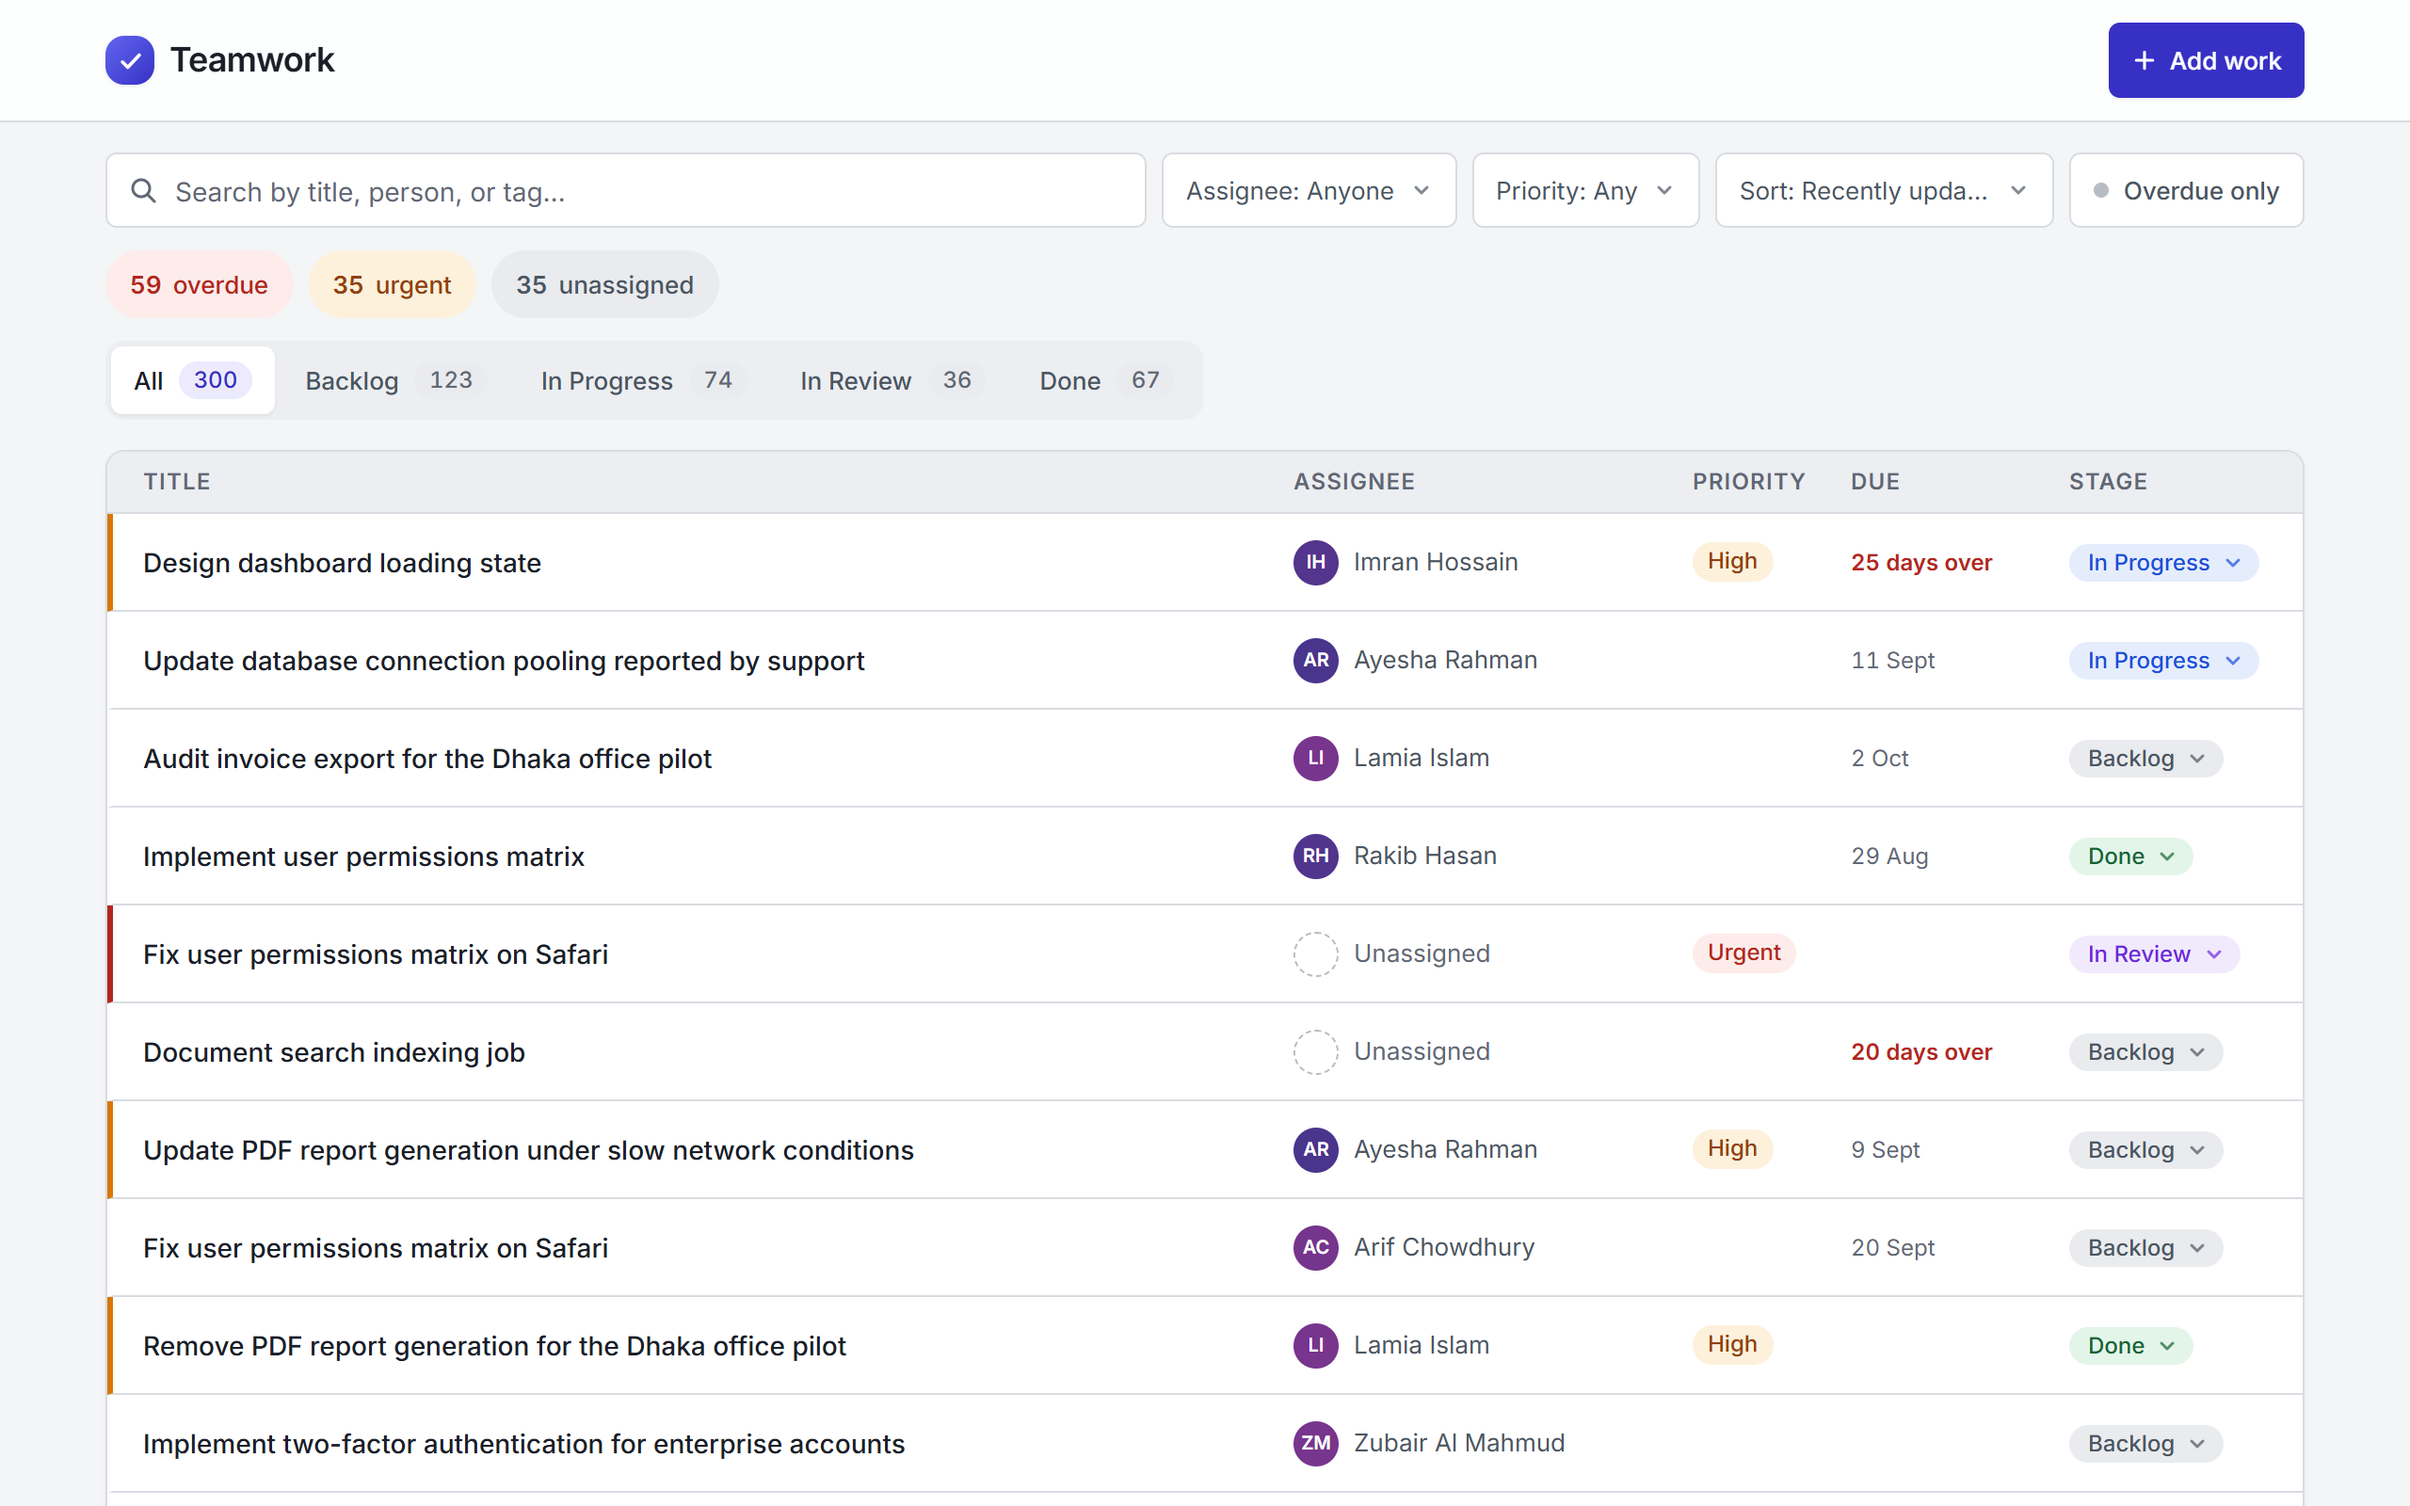
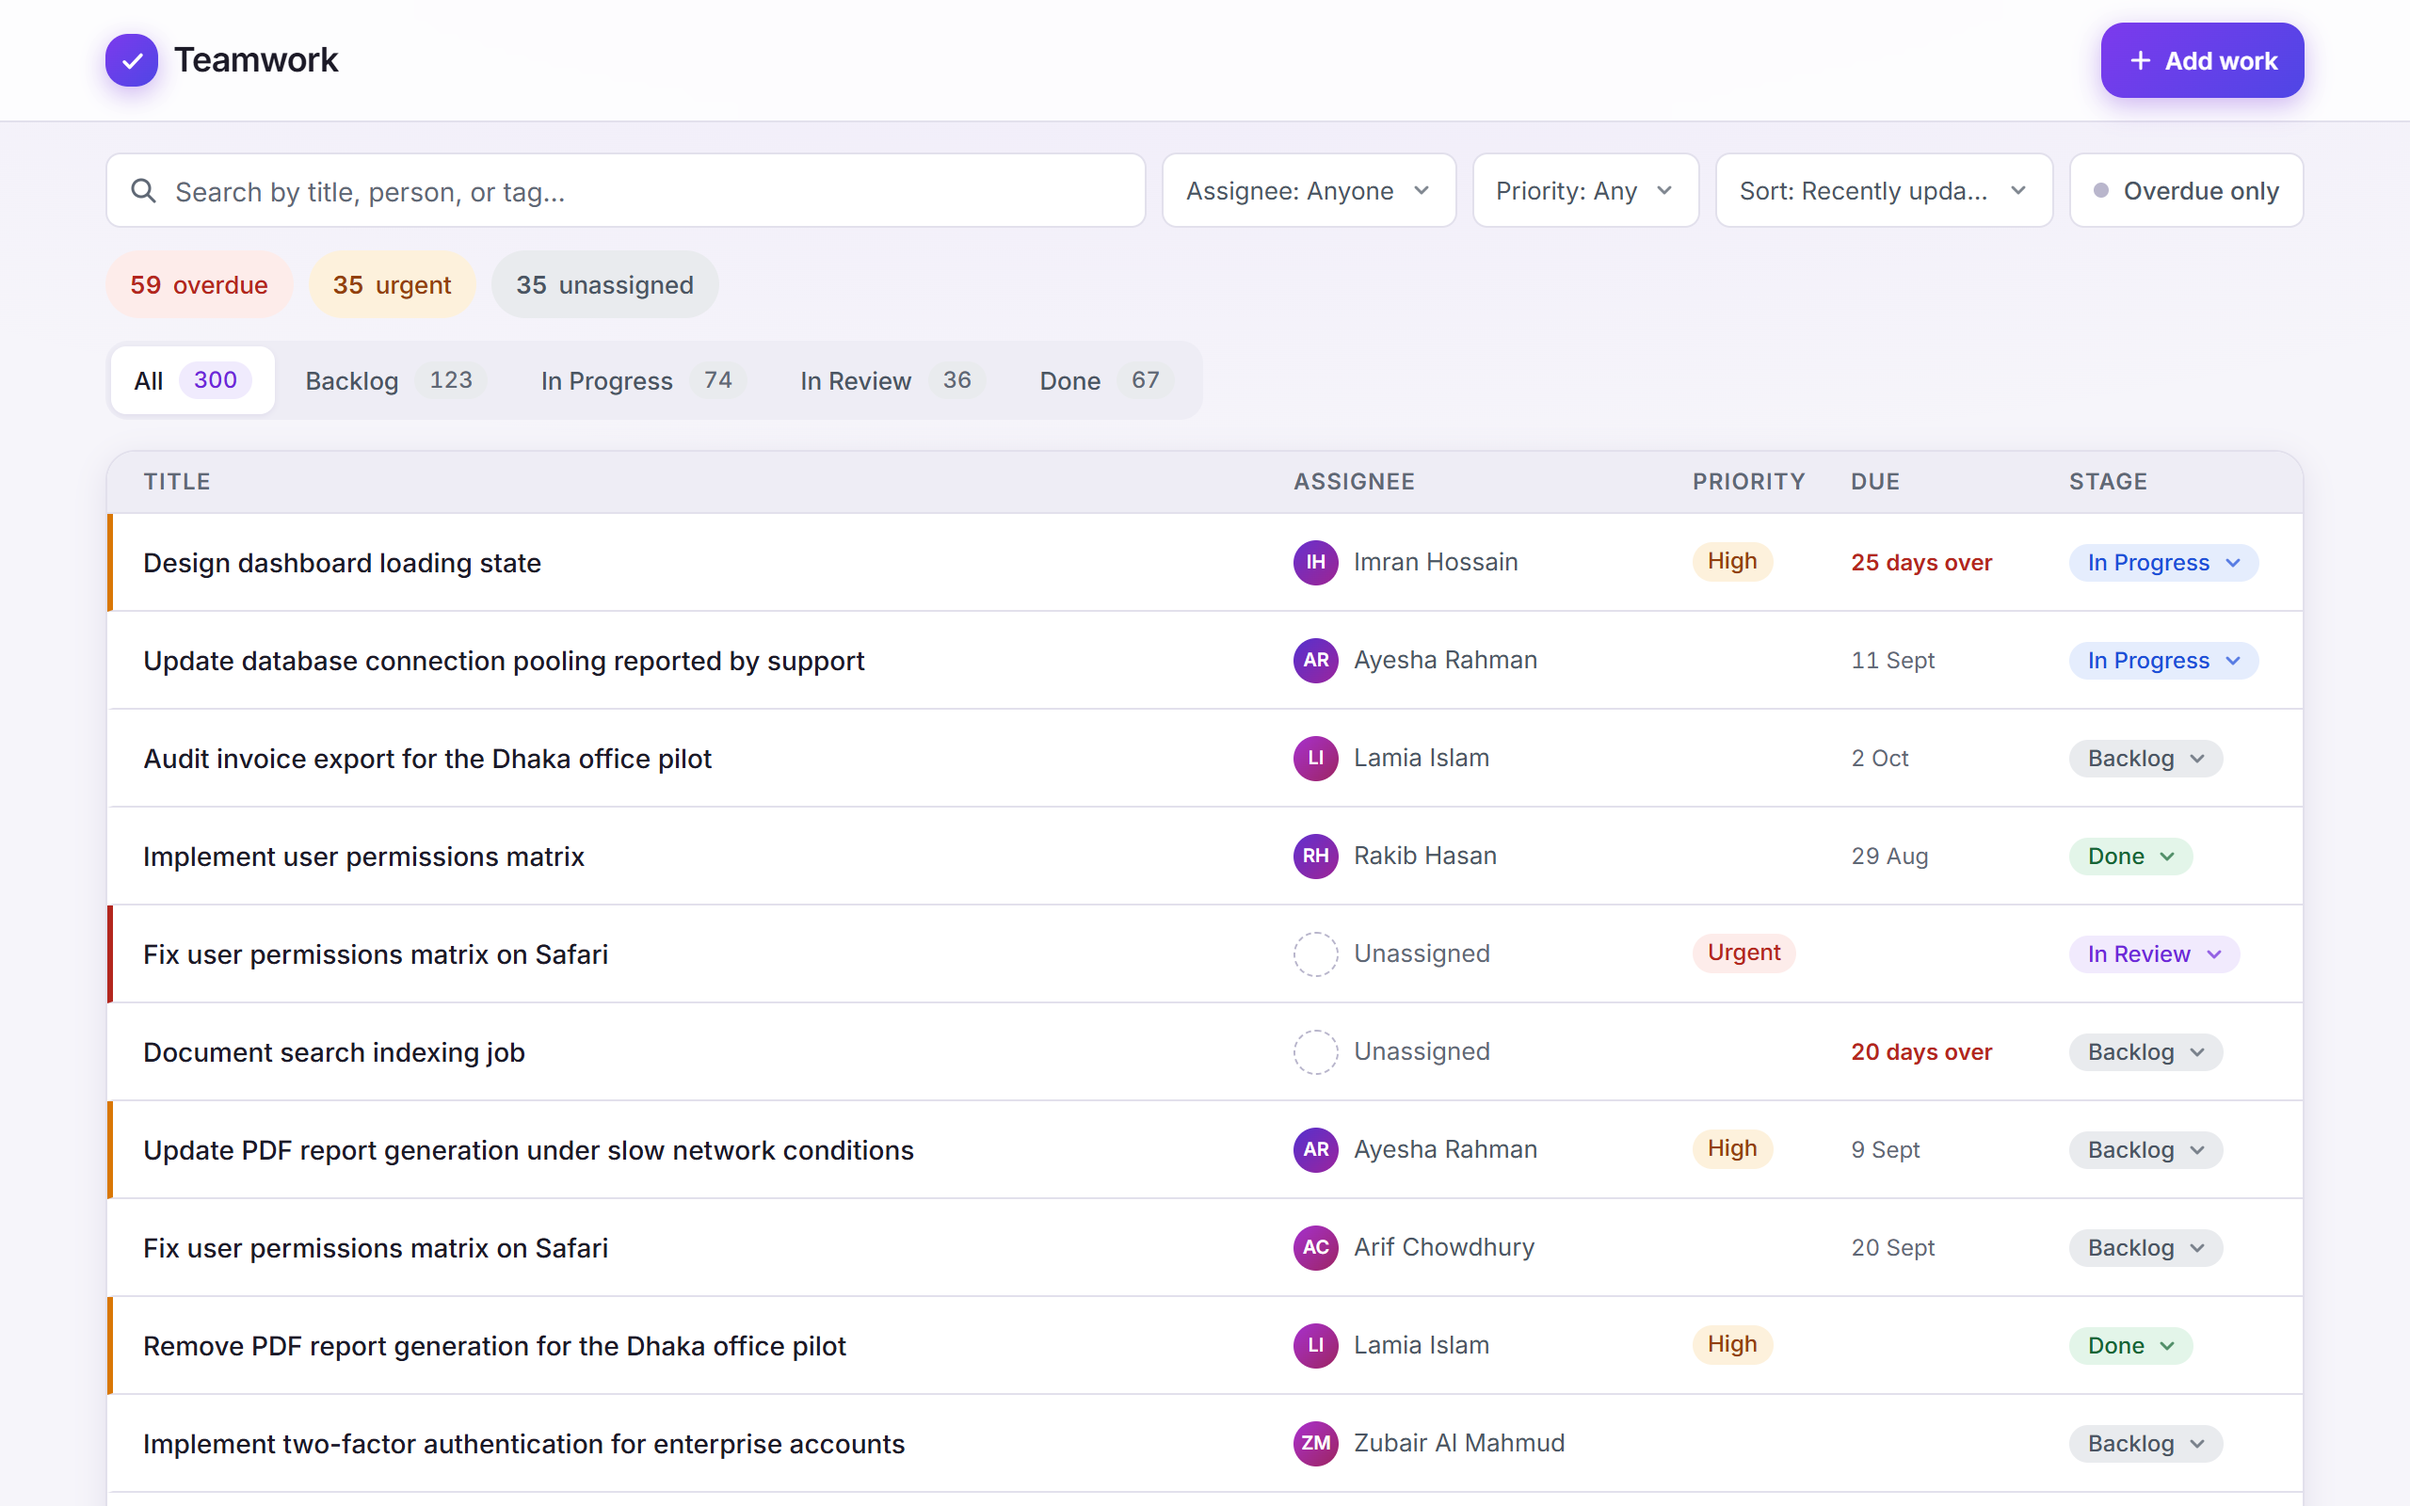
Minor UI Tweaks

diff --git a/src/app/styles/global.css b/src/app/styles/global.css
@@ -2,19 +2,19 @@
 
 
 @theme {
-  --color-page: #f4f5f7;
+  --color-page: #f6f5fa;
   --color-surface: #ffffff;
-  --color-sunken: #eceef1;
-  --color-line: #d9dce1;
-  --color-line-strong: #b7bcc4;
-  --color-ink: #1a1f27;
+  --color-sunken: #eeedf5;
+  --color-line: #e2e0ec;
+  --color-line-strong: #b9b6cc;
+  --color-ink: #1c1a27;
   --color-ink-secondary: #4b5563;
   --color-ink-muted: #5f6875;
 
-  --color-accent: #3730c4;
-  --color-accent-hover: #2c26a3;
-  --color-accent-subtle: #eceafd;
-  --color-focus: #4f46e5;
+  --color-accent: #6d28d9;
+  --color-accent-hover: #5b21b6;
+  --color-accent-subtle: #f0ebfd;
+  --color-focus: #7c3aed;
 
   --color-danger: #b3261e;
   --color-danger-subtle: #fdecea;
@@ -39,12 +39,15 @@
   --text-lg: 1.125rem;
   --text-xl: 1.375rem;
 
-  --radius-sm: 4px;
-  --radius-md: 6px;
-  --radius-lg: 10px;
-  --shadow-sm: 0 1px 2px rgb(16 24 40 / 0.06);
-  --shadow-md: 0 2px 8px rgb(16 24 40 / 0.1);
-  --shadow-lg: 0 8px 32px rgb(16 24 40 / 0.16);
+  /* Softer, rounder, with violet-tinted elevation */
+  --radius-sm: 6px;
+  --radius-md: 8px;
+  --radius-lg: 12px;
+  --radius-xl: 16px;
+  --shadow-sm: 0 1px 3px rgb(60 42 120 / 0.08);
+  --shadow-md: 0 4px 16px rgb(60 42 120 / 0.1);
+  --shadow-lg: 0 12px 40px rgb(60 42 120 / 0.18);
+  --shadow-glow: 0 4px 14px rgb(109 40 217 / 0.35);
 
   --animate-row-in: row-in 280ms cubic-bezier(0.2, 0.7, 0.3, 1) backwards;
   --animate-shimmer: shimmer 1.4s ease infinite;
@@ -95,9 +98,21 @@
   }
 }
 
+/* The brand gradient, used for every primary action so they read as one family. */
+@utility btn-gradient {
+  background-image: linear-gradient(135deg, #7c3aed, #4f46e5);
+}
+
 @layer base {
   body {
     background-color: var(--color-page);
+    /* Faint violet wash at the top — reads as "app", costs no contrast */
+    background-image: radial-gradient(
+      1100px 380px at 50% -120px,
+      rgb(124 58 237 / 0.07),
+      transparent
+    );
+    background-repeat: no-repeat;
     color: var(--color-ink);
     font-size: var(--text-base);
     -webkit-font-smoothing: antialiased;

diff --git a/src/features/work-items/components/AddWorkItem.tsx b/src/features/work-items/components/AddWorkItem.tsx
@@ -90,7 +90,7 @@ export function AddWorkItemButton(): ReactElement {
     <>
       <button
         type="button"
-        className="ms-auto inline-flex min-h-10 items-center gap-1.5 rounded-md bg-accent px-3 text-sm font-medium text-white shadow-sm transition-colors hover:bg-accent-hover active:translate-y-px"
+        className="ms-auto inline-flex min-h-10 items-center gap-1.5 rounded-lg btn-gradient px-3.5 text-sm font-semibold text-white shadow-glow transition-[filter,transform] hover:brightness-110 active:translate-y-px"
         onClick={() => setOpen(true)}
       >
         <svg viewBox="0 0 16 16" width="14" height="14" aria-hidden="true">
@@ -205,7 +205,7 @@ export function AddWorkItemButton(): ReactElement {
             </button>
             <button
               type="submit"
-              className="min-h-10 rounded-md bg-accent px-4 text-sm font-medium text-white transition-colors hover:bg-accent-hover active:translate-y-px disabled:opacity-50"
+              className="min-h-10 rounded-lg btn-gradient px-4 text-sm font-semibold text-white transition-[filter,transform] hover:brightness-110 active:translate-y-px disabled:opacity-50"
               disabled={pending || form.title.trim() === ""}
             >
               {pending ? "Adding…" : "Add item"}

diff --git a/src/shared/components/Dialog.tsx b/src/shared/components/Dialog.tsx
@@ -1,10 +1,10 @@
 import { useEffect, useRef, type ReactElement, type ReactNode } from "react";
 
 export const modalDialogClass =
-  "m-auto w-[calc(100%-2rem)] max-w-lg rounded-lg border-0 bg-surface p-0 shadow-lg backdrop:bg-[rgb(16_24_40/0.45)] backdrop:animate-fade-in open:animate-pop max-sm:bottom-0 max-sm:top-auto max-sm:mb-0 max-sm:w-full max-sm:max-w-full max-sm:rounded-b-none";
+  "m-auto w-[calc(100%-2rem)] max-w-lg rounded-xl border-0 bg-surface p-0 shadow-lg backdrop:bg-[rgb(16_24_40/0.45)] backdrop:animate-fade-in open:animate-pop max-sm:bottom-0 max-sm:top-auto max-sm:mb-0 max-sm:w-full max-sm:max-w-full max-sm:rounded-b-none";
 
 export const sheetDialogClass =
-  "fixed inset-x-0 bottom-0 top-auto m-0 max-h-[85dvh] w-full max-w-full overflow-y-auto rounded-t-lg border-0 bg-surface p-0 shadow-lg backdrop:bg-[rgb(16_24_40/0.45)] backdrop:animate-fade-in open:animate-slide-up";
+  "fixed inset-x-0 bottom-0 top-auto m-0 max-h-[85dvh] w-full max-w-full overflow-y-auto rounded-t-xl border-0 bg-surface p-0 shadow-lg backdrop:bg-[rgb(16_24_40/0.45)] backdrop:animate-fade-in open:animate-slide-up";
 
 interface DialogProps {
   readonly open: boolean;

diff --git a/src/features/work-items/components/Pagination.tsx b/src/features/work-items/components/Pagination.tsx
@@ -27,7 +27,7 @@ function getPageItems(page: number, pageCount: number): readonly (number | "gap"
 }
 
 const pageButtonClass =
-  "inline-flex min-h-9 min-w-9 items-center justify-center rounded-md border border-transparent px-2 text-sm tabular-nums text-ink-secondary transition-colors enabled:hover:border-line enabled:hover:bg-surface enabled:active:translate-y-px disabled:opacity-40 aria-[current=page]:border-accent aria-[current=page]:bg-accent aria-[current=page]:font-medium aria-[current=page]:text-white max-sm:min-h-11 max-sm:min-w-11 max-sm:border-line max-sm:bg-surface";
+  "inline-flex min-h-9 min-w-9 items-center justify-center rounded-md border border-transparent px-2 text-sm tabular-nums text-ink-secondary transition-colors enabled:hover:border-line enabled:hover:bg-surface enabled:active:translate-y-px disabled:opacity-40 aria-[current=page]:border-transparent aria-[current=page]:btn-gradient aria-[current=page]:font-semibold aria-[current=page]:text-white max-sm:min-h-11 max-sm:min-w-11 max-sm:border-line max-sm:bg-surface";
 
 export function Pagination({
   page,

diff --git a/src/features/work-items/components/WorkItemRow.tsx b/src/features/work-items/components/WorkItemRow.tsx
@@ -29,7 +29,7 @@ export function WorkItemRow({
 
   return (
     <li
-      className={`relative grid animate-row-in gap-2 border-b border-line border-s-[3px] border-s-transparent bg-surface px-4 py-3 transition-colors last:border-b-0 hover:bg-[#f8f9fb] data-[priority=high]:border-s-[#d97706] data-[priority=urgent]:border-s-danger md:min-h-13 md:items-center md:gap-3 md:py-2 ${rowGridMobile} ${rowGridDesktop}`}
+      className={`relative grid animate-row-in gap-2 border-b border-line border-s-[3px] border-s-transparent bg-surface px-4 py-3 transition-colors last:border-b-0 hover:bg-[#faf9fe] data-[priority=high]:border-s-[#d97706] data-[priority=urgent]:border-s-danger md:min-h-13 md:items-center md:gap-3 md:py-2 ${rowGridMobile} ${rowGridDesktop}`}
       data-priority={item.priority}
       style={{ animationDelay: `${Math.min(index, 16) * 24}ms` }}
     >

diff --git a/src/features/work-items/components/WorkItemList.tsx b/src/features/work-items/components/WorkItemList.tsx
@@ -8,12 +8,12 @@ import { WorkItemRow } from "./WorkItemRow";
 
 const SKELETON_ROWS = 8;
 
-const panelClass = "overflow-hidden rounded-lg border border-line bg-surface shadow-sm";
+const panelClass = "overflow-hidden rounded-xl border border-line bg-surface shadow-md";
 const stateBoxClass = "flex flex-col items-center gap-2 px-6 py-10 text-center";
 const stateTitleClass = "text-md font-semibold";
 const stateBodyClass = "max-w-[44ch] text-sm text-ink-secondary";
 const primaryButtonClass =
-  "mt-3 min-h-11 rounded-md bg-accent px-5 text-sm font-medium text-white transition-colors hover:bg-accent-hover active:translate-y-px";
+  "mt-3 min-h-11 rounded-lg btn-gradient px-5 text-sm font-semibold text-white shadow-glow transition-[filter,transform] hover:brightness-110 active:translate-y-px";
 
 function LoadingState(): ReactElement {
   return (

diff --git a/src/features/work-items/components/Assignee.tsx b/src/features/work-items/components/Assignee.tsx
@@ -26,7 +26,9 @@ export function Assignee({ person }: { person: Person | null }): ReactElement {
     <span className="inline-flex min-w-0 items-center gap-2 text-sm text-ink-secondary">
       <span
         className="inline-flex size-6 shrink-0 items-center justify-center rounded-full text-[10px] font-semibold text-white"
-        style={{ backgroundColor: `hsl(${hueFor(person.id)} 45% 38%)` }}
+        style={{
+          backgroundImage: `linear-gradient(135deg, hsl(${hueFor(person.id)} 62% 50%), hsl(${(hueFor(person.id) + 45) % 360} 62% 38%))`,
+        }}
         aria-hidden="true"
       >
         {getInitials(person.name)}

diff --git a/src/shared/components/Dropdown.tsx b/src/shared/components/Dropdown.tsx
@@ -149,7 +149,7 @@ export function Dropdown<T extends string>({
           id={listId}
           role="listbox"
           aria-label={ariaLabel}
-          className={`absolute top-full z-20 mt-1 max-h-64 w-max min-w-full max-w-64 animate-pop overflow-y-auto rounded-md border border-line bg-surface py-1 shadow-md ${
+          className={`absolute top-full z-20 mt-1 max-h-64 w-max min-w-full max-w-64 animate-pop overflow-y-auto rounded-lg border border-line bg-surface py-1.5 shadow-lg ${
             align === "end" ? "right-0 origin-top-right" : "left-0 origin-top-left"
           }`}
         >

diff --git a/src/app/App.tsx b/src/app/App.tsx
@@ -13,7 +13,7 @@ export function App(): ReactElement {
       <header className="sticky top-0 z-10 border-b border-line bg-white/85 backdrop-blur-md">
         <div className="mx-auto flex max-w-304 items-center gap-2 px-4 py-3 md:px-6">
           <span
-            className="grid size-6.5 place-items-center rounded-lg bg-linear-to-br from-[#6366f1] to-accent text-white shadow-sm"
+            className="grid size-7 place-items-center rounded-lg btn-gradient text-white shadow-glow"
             aria-hidden="true"
           >
             <svg viewBox="0 0 16 16" width="13" height="13">

diff --git a/src/features/filters/components/Toolbar.tsx b/src/features/filters/components/Toolbar.tsx
@@ -116,7 +116,7 @@ export function Toolbar(): ReactElement {
           )}
           <button
             type="button"
-            className="min-h-11 flex-1 rounded-md bg-accent text-base font-medium text-white transition-colors hover:bg-accent-hover active:translate-y-px"
+            className="min-h-11 flex-1 rounded-lg btn-gradient text-base font-semibold text-white transition-[filter,transform] hover:brightness-110 active:translate-y-px"
             onClick={() => setSheetOpen(false)}
           >
             Done

diff --git a/README.md b/README.md
@@ -75,7 +75,7 @@ Everything visual derives from the Tailwind `@theme` tokens in `src/app/styles/g
 
 - **Type scale** - compact (12–22px): this is a tool people scan, not a marketing page.
 - **Spacing** - 4px rhythm throughout.
-- **Color** - cool-gray neutrals, an indigo accent, and semantic status tones (danger / warning / success / info / review). Every text color clears WCAG AA (4.5:1) against the background it sits on; each status has a strong tone for text and a subtle tone for badge fills.
+- **Color** - violet-tinted neutrals, a violet brand accent (with a violet→indigo gradient reserved for primary actions), and semantic status tones (danger / warning / success / info / review). Every text color clears WCAG AA (4.5:1) against the background it sits on; each status has a strong tone for text and a subtle tone for badge fills.
 - **Interaction** - one consistent `:focus-visible` ring app-wide; 44px minimum touch targets; `prefers-reduced-motion` respected.
 
 ### Accessibility
